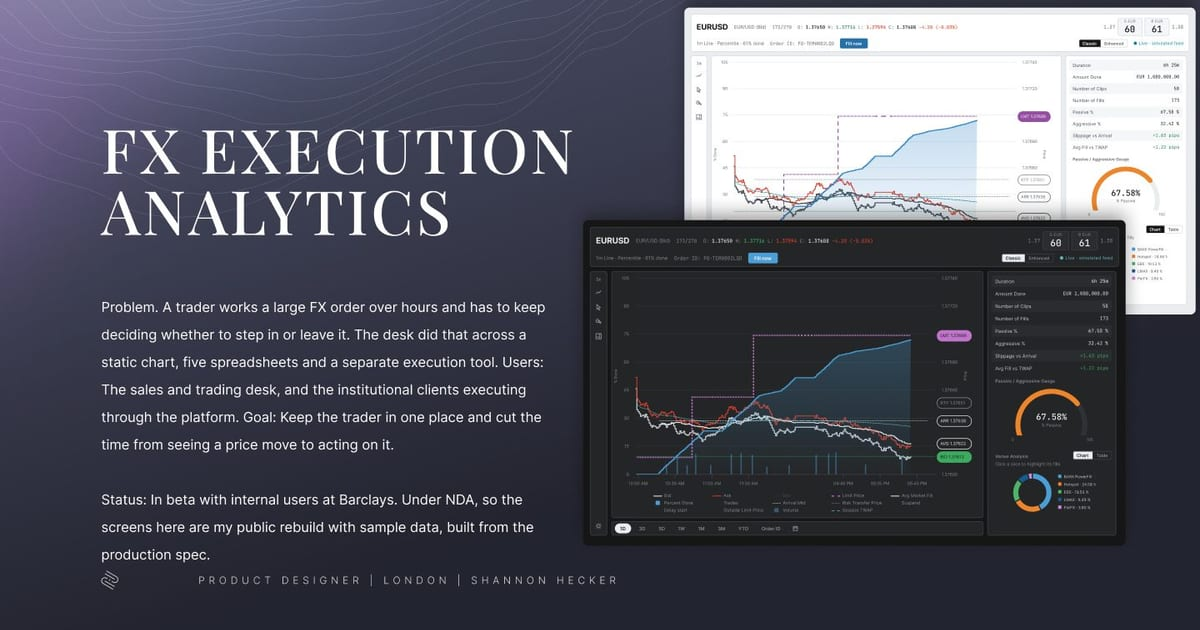
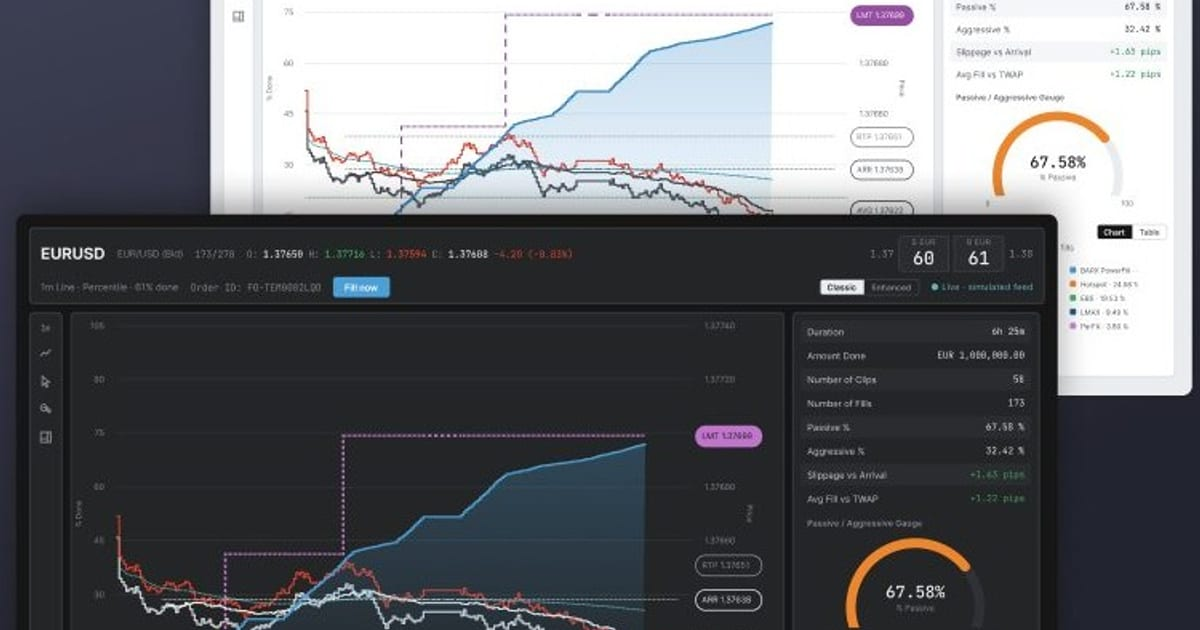
Art direction: crop case slides to their UI
The case images were presentation slides whose left ~40% is a serif title
block; on the white one-grotesk page they read as another brand and their
text was unreadable on a phone. scripts/crop-ui.py derives UI-only crops
(originals kept), each at its natural ratio so no UI is cut. Hero centres
on the UI. The uoaui.ai row no longer previews an FX screenshot. Alt text
for the outcomes image now describes what is shown.

Claude-Session: https://claude.ai/code/session_01PiRTfcFy5XVS1nrmkuXjvW

diff --git a/src/lib/cases.ts b/src/lib/cases.ts
@@ -3,23 +3,23 @@
 export const CASES = [
   {
     "href": "/fx",
-    "peek": "fx-cover.jpg",
+    "peek": "ui-fx-cover.jpg",
     "n": "01",
     "vt": "fx",
     "title": "FX execution analytics",
     "meta": "Barclays · 2025 to now · in beta. Five spreadsheets and a static chart became one chart a trader can act from.",
     "arrow": "Read →",
-    "img": "fx-cover.jpg"
+    "img": "ui-fx-cover.jpg"
   },
   {
     "href": "/fusion",
-    "peek": "fusion-cover.jpg",
+    "peek": "ui-fusion-cover.jpg",
     "n": "02",
     "vt": "fusion",
     "title": "Fusion analytics dashboard",
     "meta": "J.P. Morgan · 2023 to 2025 · shipped. Board-ready analytics on Salt, zero accessibility violations, opened to clients in phase two.",
     "arrow": "Read →",
-    "img": "fusion-cover.jpg"
+    "img": "ui-fusion-cover.jpg"
   },
   {
     "href": "/winking-star",
@@ -33,13 +33,13 @@ export const CASES = [
   },
   {
     "href": "/uoaui",
-    "peek": "fx-action.jpg",
+    "peek": null,
     "n": "04",
     "vt": "ai",
     "title": "uoaui.ai and how I use AI",
     "meta": "Private alpha. A design platform on Claude that builds screens from real design systems, and where a designer still matters.",
     "arrow": "Read →",
-    "img": "fx-action.jpg"
+    "img": null
   }
 ] as const;
 

diff --git a/src/styles/production.css b/src/styles/production.css
@@ -144,3 +144,8 @@ html:not(.has-js) .game-sound{display:none}
 .dec h3{font-size:clamp(24px,2.4vw,40px);font-weight:600;letter-spacing:-.035em;line-height:1.06;margin-bottom:14px}
 .ws .dec h3{font-family:var(--ws-display);font-weight:900;letter-spacing:-.02em;color:var(--ws-forest)}
 .ws-hero .copy h2{font-family:var(--ws-display);font-weight:900;font-size:clamp(34px,4vw,68px);line-height:.98;color:var(--ws-forest)}
+
+/* UI crops (scripts/crop-ui.py) keep their own ratio instead of the
+   prototype's forced 16:9, so no UI is cut off; the hero centres on the UI. */
+.shot img{aspect-ratio:auto}
+.hero-art img{object-position:center}

diff --git a/scripts/crop-ui.py b/scripts/crop-ui.py
@@ -1,0 +1,25 @@
+# Art direction: the case images are presentation slides whose left ~40% is a
+# serif title block. On a white, one-grotesk page they read as another brand,
+# and their small text is unreadable on a phone. These crops keep only the UI.
+# Originals are untouched; crops are written as ui-<name>.jpg next to them.
+# Boxes are (left, top, right, bottom) in the 1440x810 source.
+import sys
+from PIL import Image
+BOXES = {
+    'fx-cover':      (690, 20, 1440, 690),
+    'fx-before':     (560, 20, 1440, 790),
+    'fx-users':      (480, 40, 1440, 768),
+    'fx-journey':    (520, 30, 1440, 720),
+    'fx-loop':       (580, 60, 1440, 780),
+    'fx-problem':    (640, 130, 1440, 730),
+    'fx-action':     (620, 30, 1440, 745),
+    'fx-outcomes':   (560, 200, 1440, 810),
+    'fusion-cover':  (700, 0, 1440, 560),
+    'fusion-design': (600, 20, 1440, 650),
+    'fusion-outcome':(670, 80, 1440, 700),
+}
+root = sys.argv[1]
+for name, box in BOXES.items():
+    im = Image.open(f'{root}/{name}.jpg').crop(box)
+    im.save(f'{root}/ui-{name}.jpg', quality=92, optimize=True)
+    print(name, im.size, round(im.size[0] / im.size[1], 2))
